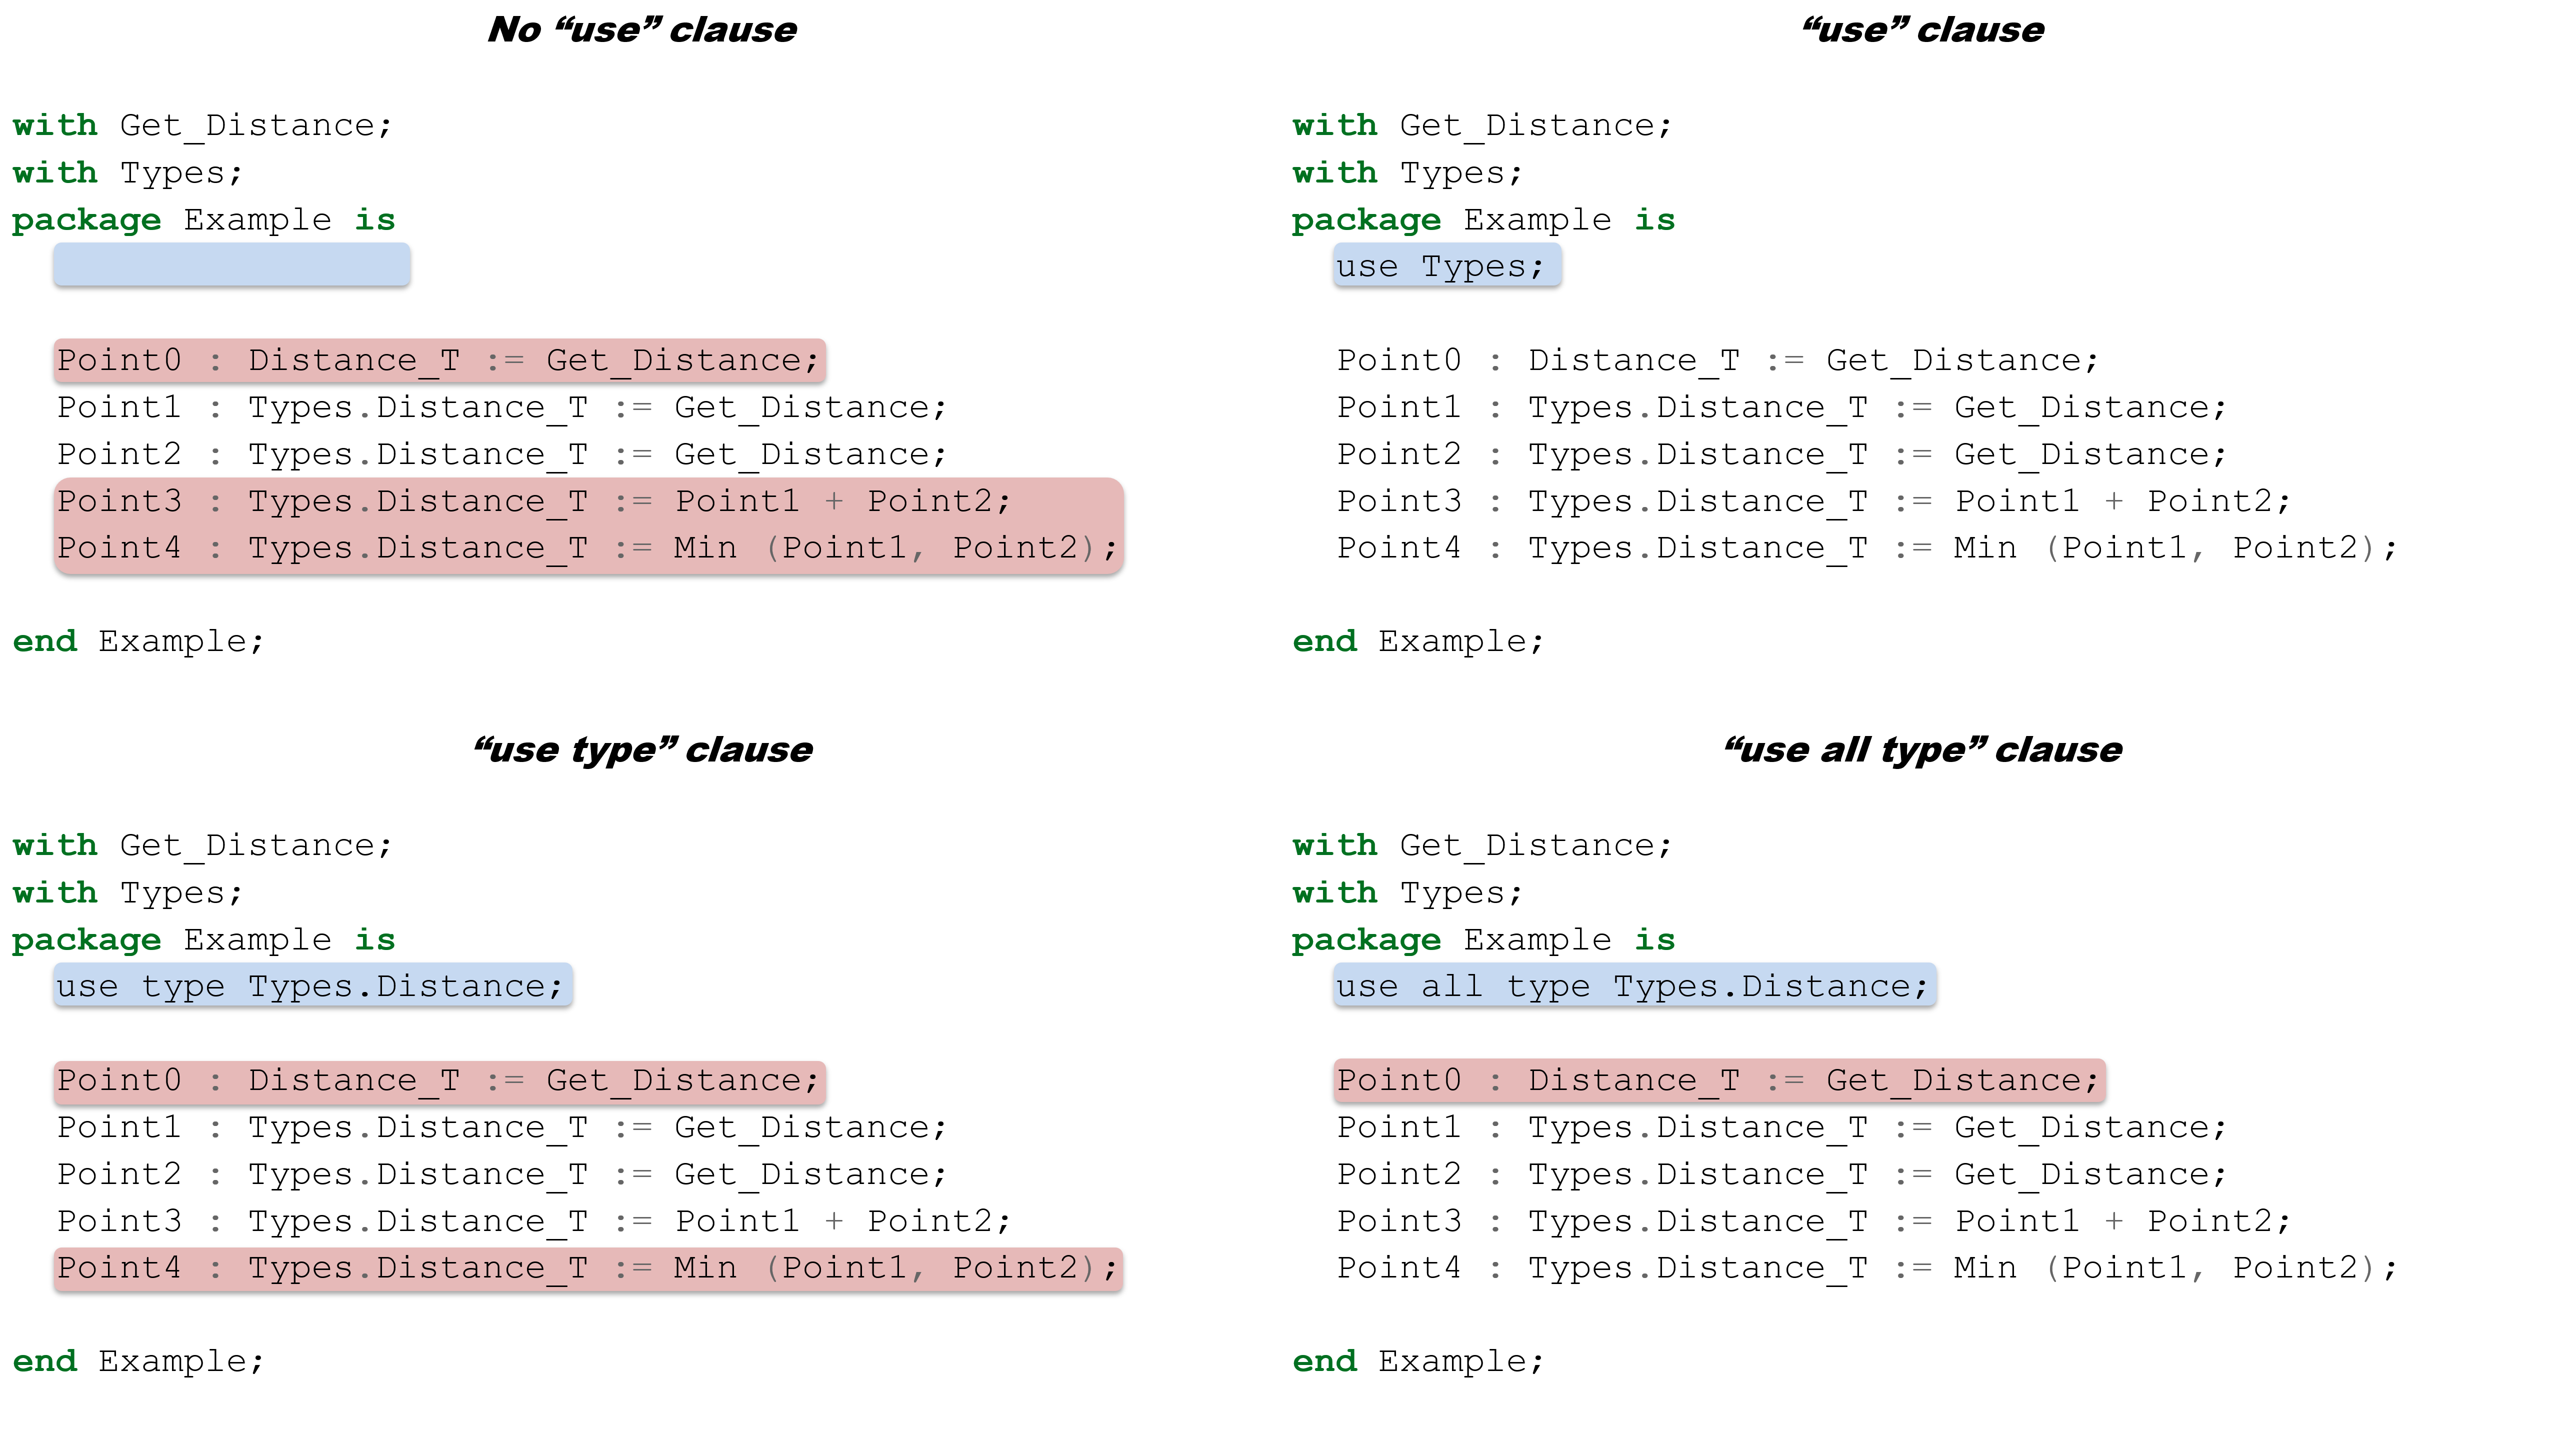
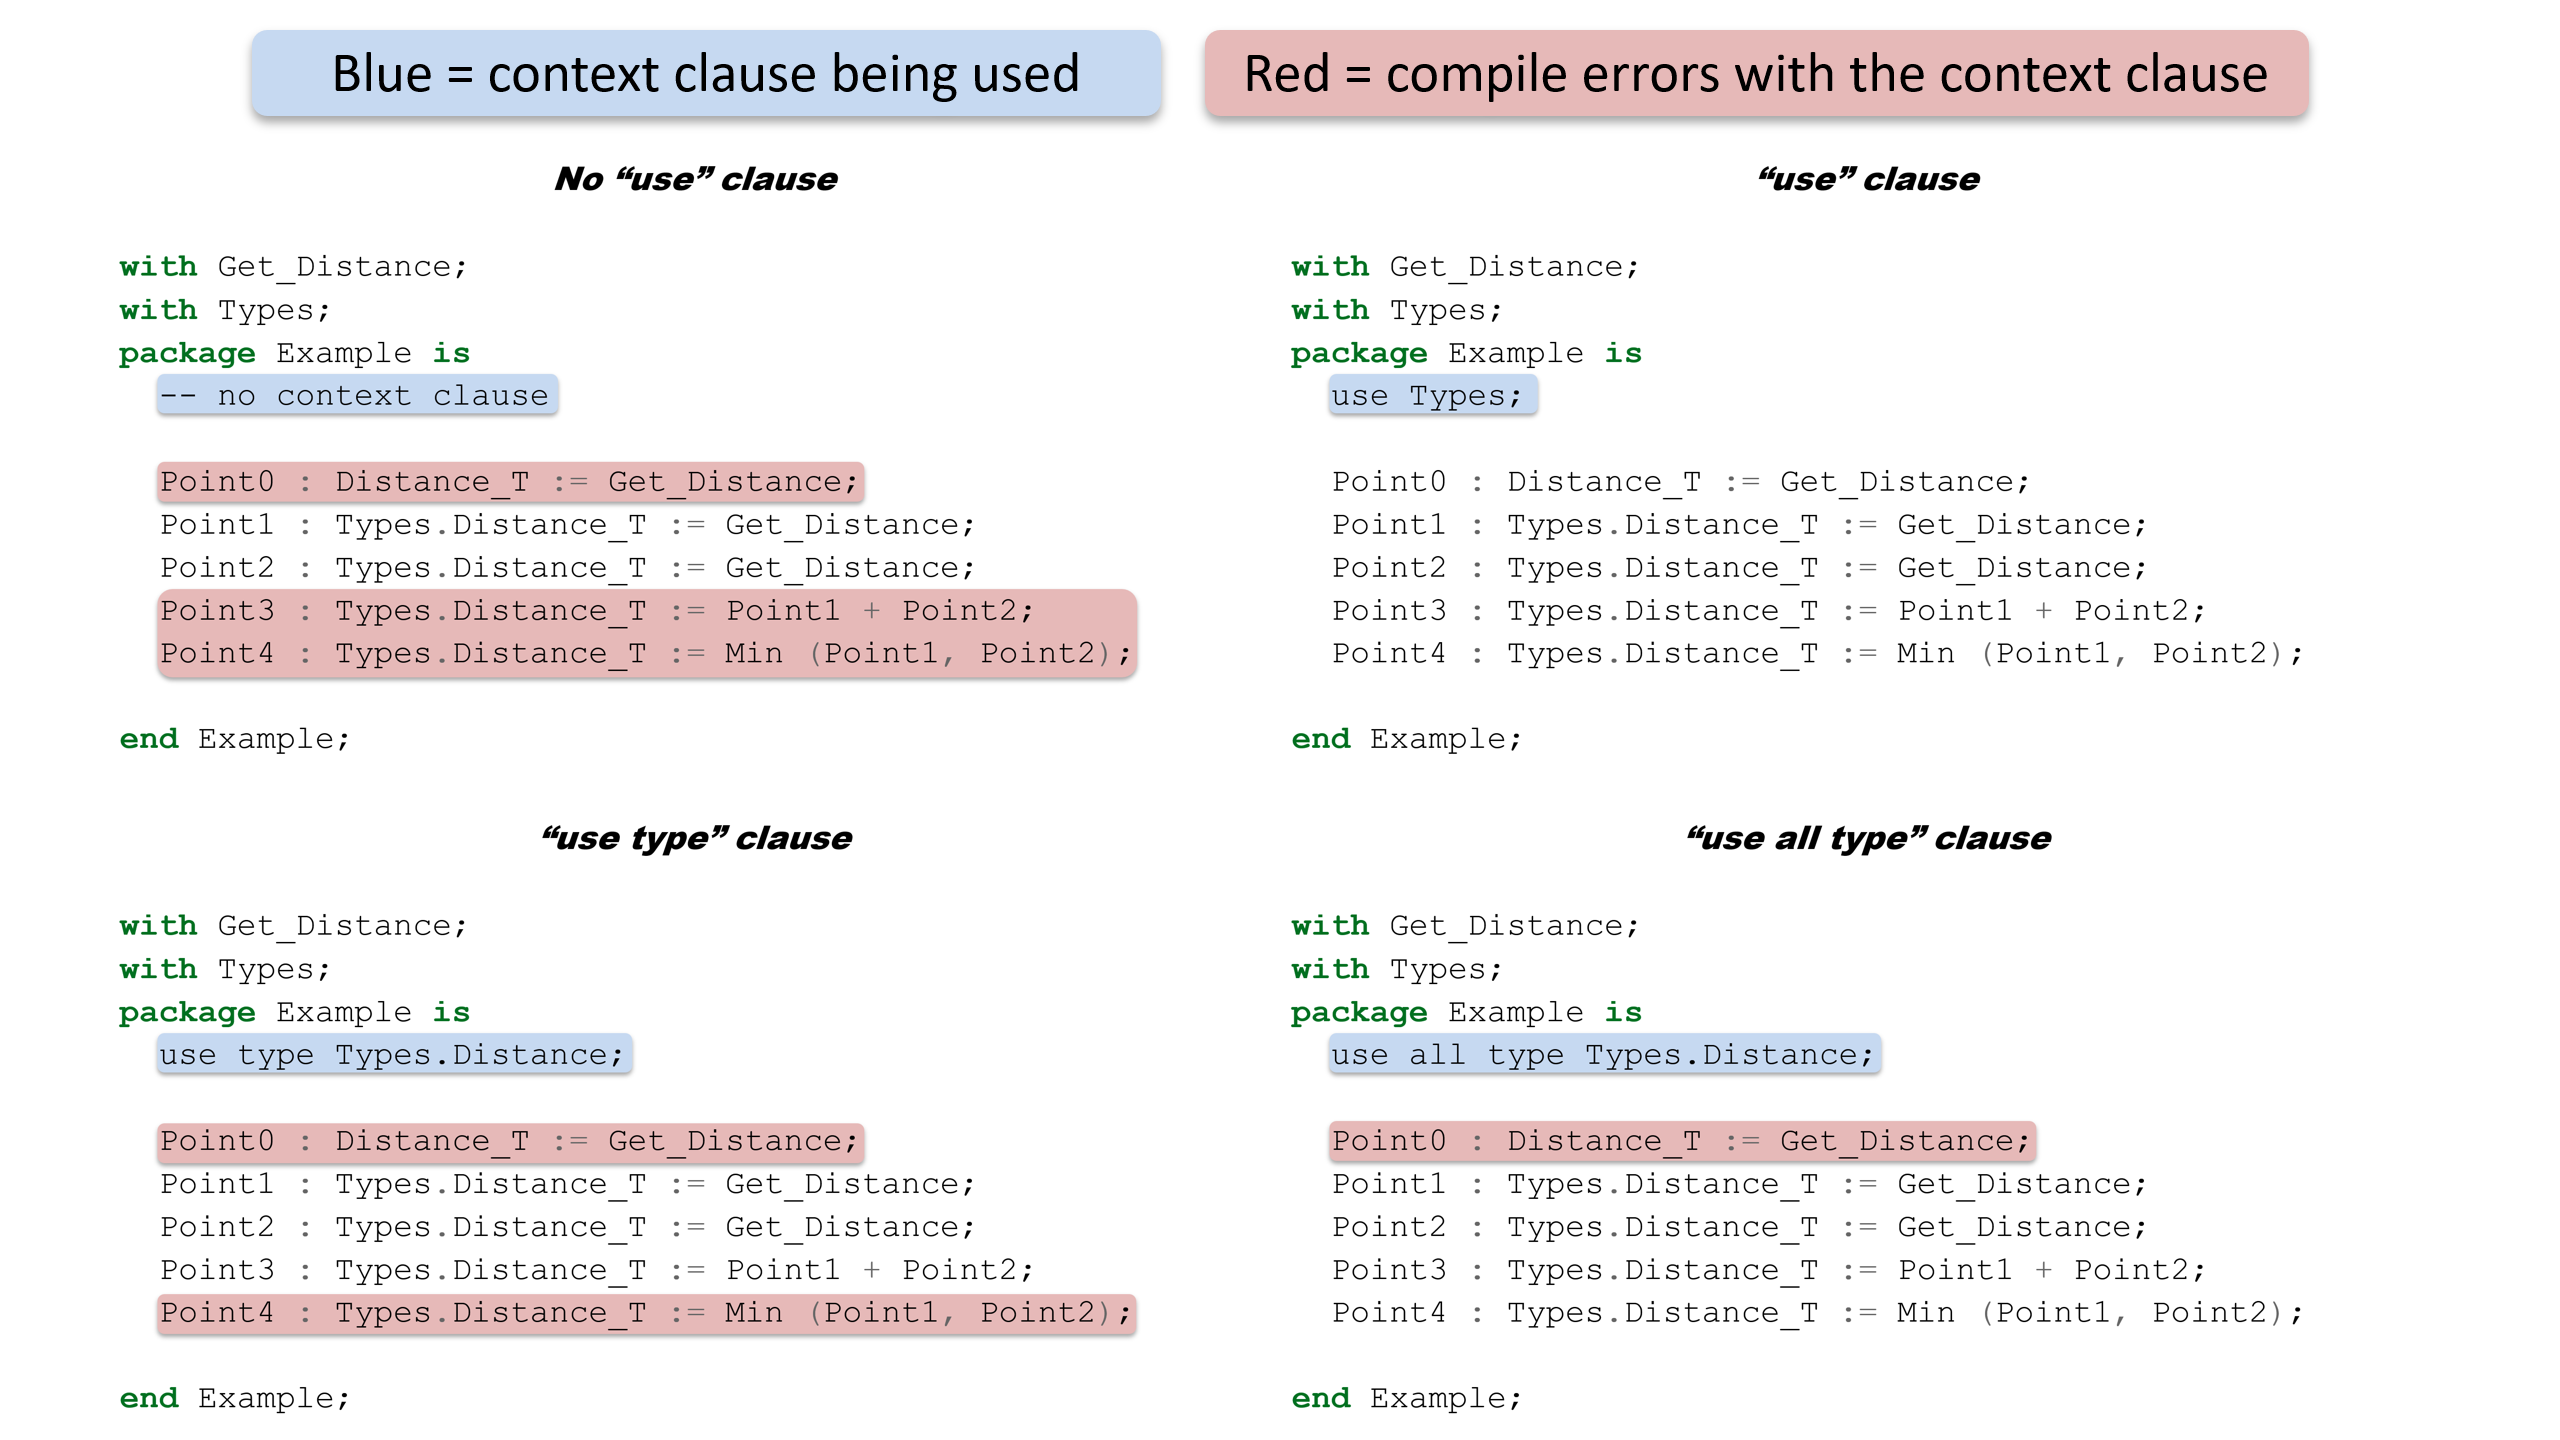
Fixes to comparison image

diff --git a/courses/fundamentals_of_ada/135_visibility.rst b/courses/fundamentals_of_ada/135_visibility.rst
@@ -330,8 +330,6 @@ Example Code
 
 .. image:: use_clause_comparison.png
 
-*Where blue indicates the specified clause, and red indicates the compile error(s) with that particular clause*
-
 -----------------------------
 Multiple "use type" Clauses
 -----------------------------
